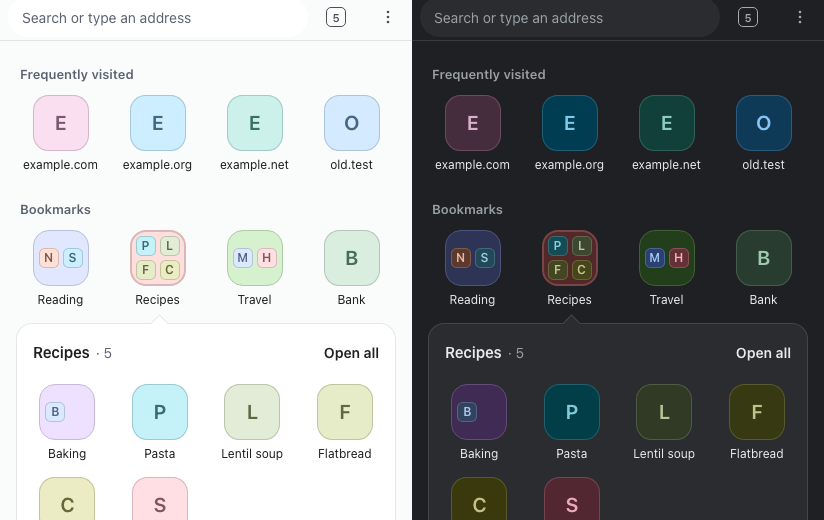
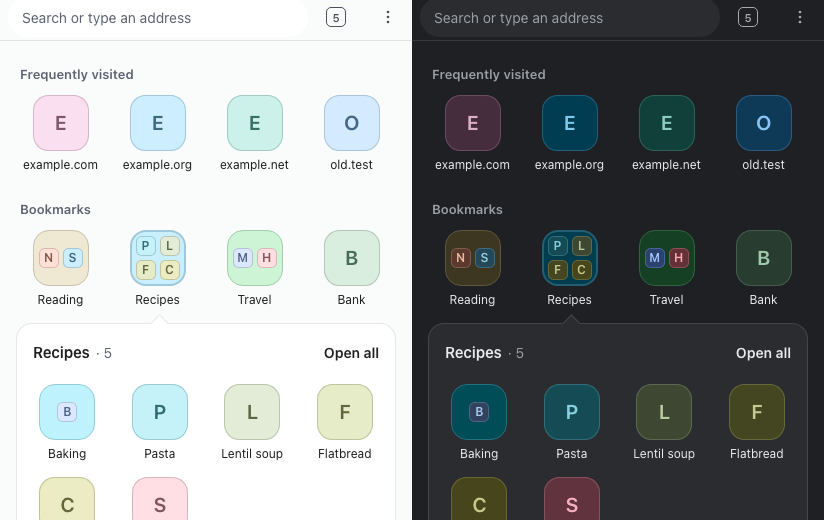
design-system.md: tint.js is where a colour made up for an item comes from, on the --bar or --surface it sits on with the frame colour as the accent; colour-util.md's pictures show folders with one, two and four sites

diff --git a/docs/design-system.md b/docs/design-system.md
@@ -10,6 +10,7 @@ How every piece of our own UI looks: the shell, the settings page, and any app a
 | `core/tones` | Every colour, made from the one frame colour Go owns, light and dark. Go sends both palettes with the colour (`tones`, beside `windowColor`), and each workspace's with it, so web and native shells paint the same tones |
 | `shell/src/theme.js` | Puts the light or dark palette on the root as CSS variables, as the theme pref and the system say |
 | `shell/src/design.css` | Type, the floating shadow, the focus ring, and the shared controls: `.icon-button`, `.text-button` with `.primary`, `.quiet` and `.danger`, `.text-field`, `select`, `.switch`, `.tag`, `.secondary`, `.text-field-error`, and their touch sizes |
+| `shell/src/ui/tint.js` | The colours made up for an item, from gulal: one environment per background, `--bar` or `--surface`, made again each time the theme is painted |
 | `shell/src/ui/` | The shared parts that need behaviour: `Dialog`, `RowMenu`, `Field`, `Segmented`, `Swatches`, and `escape.js`, which gives Escape to the innermost thing open |
 | `shell/src/apps/settings/SettingsApp.vue` | The settings page's own layout: `.nav-item`, `.card`, `.row`, `.label`, `h2` |
 | `shell/src/extensions/ExtensionsToolbar.vue` | The toolbar's floating menu (`.pbx-menu`) |
@@ -65,9 +66,10 @@ away from the label it picked, a little at a time, until it does; so the accent 
 slightly from the frame. `shell/e2e/settings.cjs` checks every preset, light and dark.
 
 **A colour made up for an item** (a site's letter tile, a bookmark folder's mark, anything
-coloured from a seed or its text) comes from [gulal](https://github.com/sudiptadeb/gulal),
+coloured from a seed or its text) comes from [gulal](https://github.com/sudiptadeb/gulal), through `shell/src/ui/tint.js`,
 never a literal or a list of our own. Give gulal the place it sits in, from the tones: the
-scheme, the surface as its background, and `--accent`. The same text then gets the same colour
+scheme, the `--bar` or `--surface` it sits on as its background, and the frame colour as its
+accent, none for None. The same text then gets the same colour
 in that place every time, in Go and in the shells, as strong as the theme, and its inks are held
 to APCA Lc 60. Decided 2026-11-18, after the letter tiles' random colours sat badly with the
 theme.
